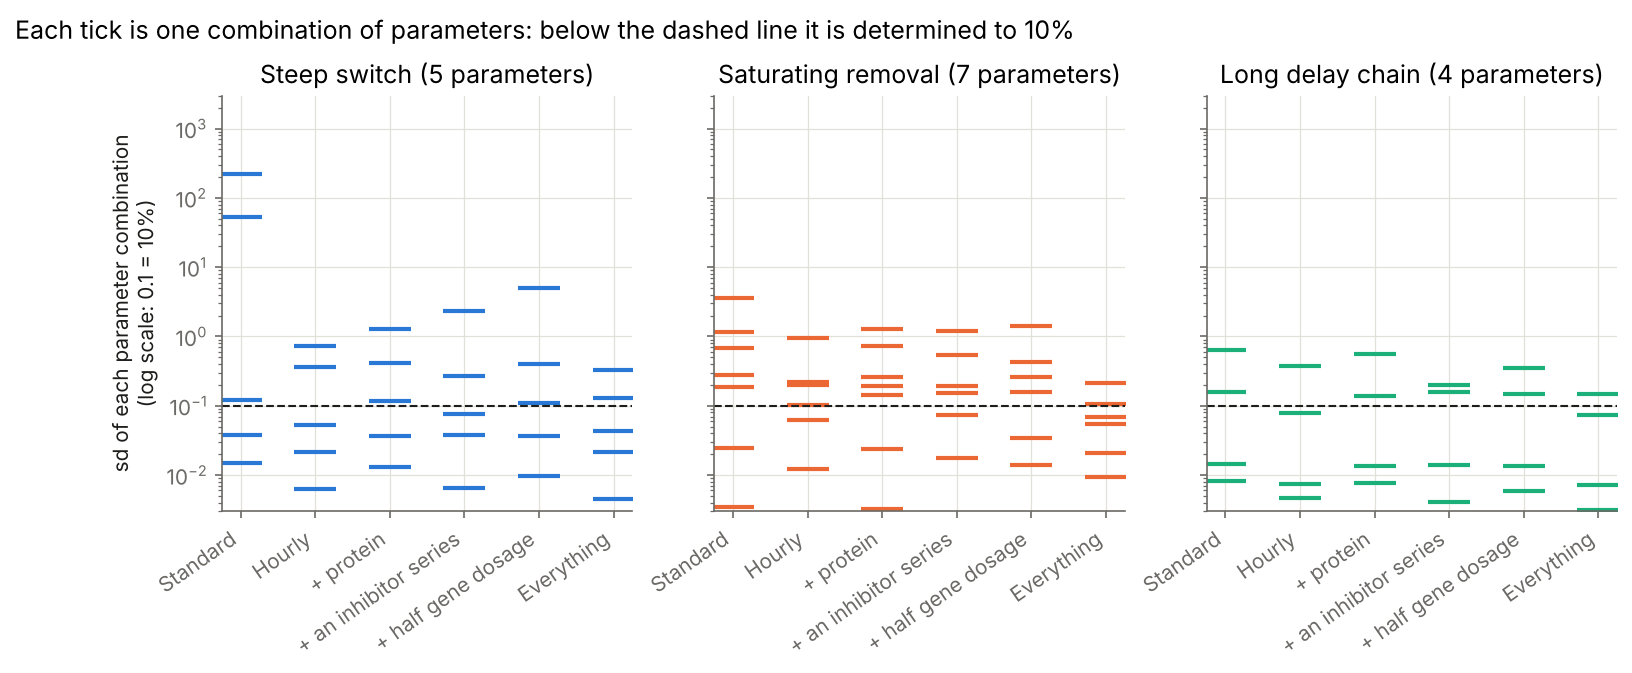
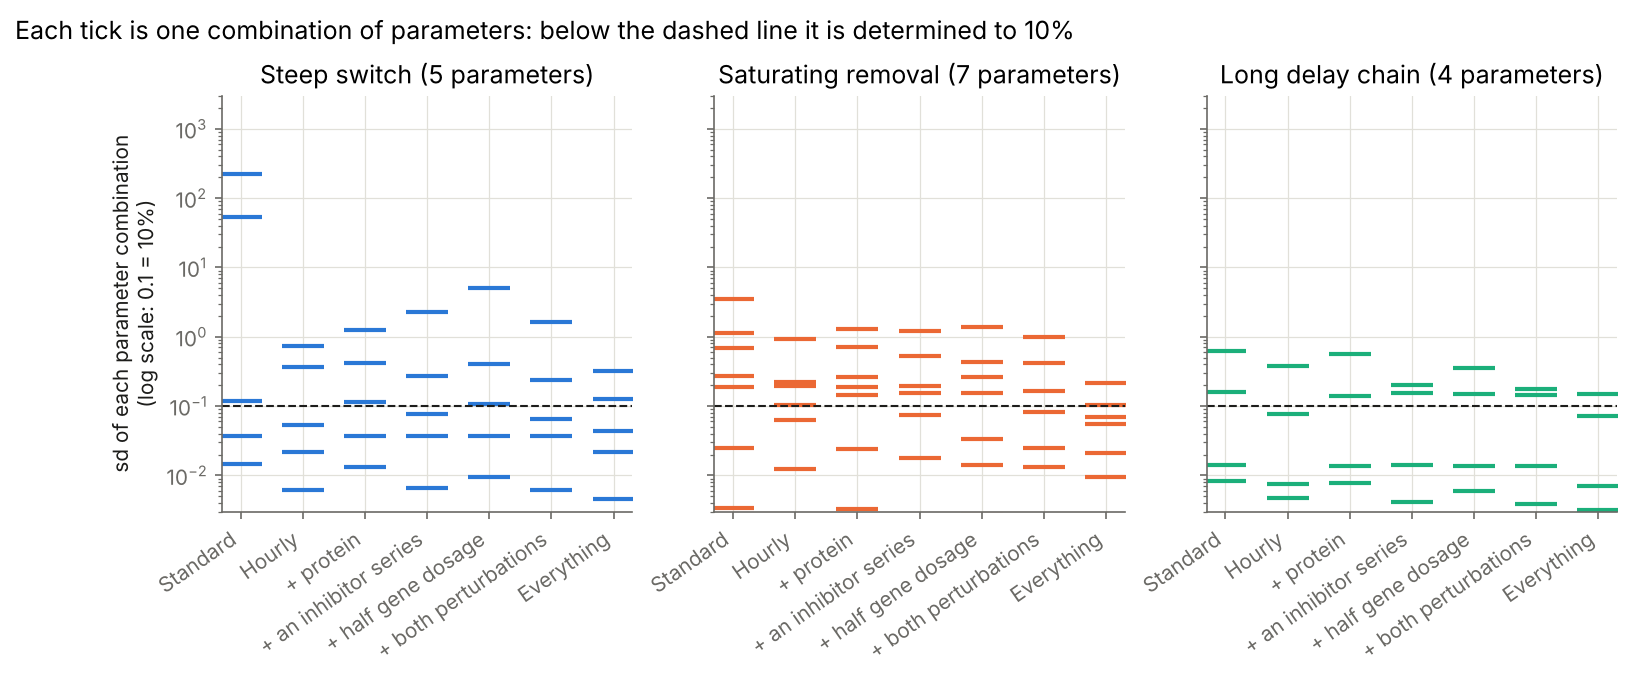
Design and identifiability write-up; combined-perturbation results; dashboard headline fixes
Claude-Session: https://claude.ai/code/session_01LZ2KLULEdfhe3RZk1mB1TN

diff --git a/app.py b/app.py
@@ -115,20 +115,22 @@ st.markdown('<p class="lede">Three textbook explanations of how one gene keeps 2
             "course really say about the parameters inside a model?</p>", unsafe_allow_html=True)
 
 if disc is not None:
-    std = disc[disc["design"] == "standard"].groupby("truth")["delta"].min()
-    inh = disc[disc["design"] == "inhibitor"].groupby("truth")["delta"].min()
-    dose = disc[disc["design"] == "dosage"].groupby("truth")["delta"].min()
+    worst = disc.groupby("design")["delta"].min()
+    singles = worst[["protein", "inhibitor", "dosage"]]
+    best_single = singles.idxmax()
     cols = st.columns(4)
     cards = [
         kpi("Rival models", "3", "A steep switch, saturating removal and a long delay chain: the three standard "
             "ways a negative-feedback loop can oscillate."),
-        kpi("Evidence from a standard time course", f"Δ ≤ {std.max():.1f}",
-            "mRNA every 4 hours for two days. Some version of a rival mimics the truth almost perfectly "
-            "(Δ under 2 is indistinguishable)."),
-        kpi("Evidence from adding an inhibitor series", f"Δ ≥ {inh.min():,.0f}",
-            "Three doses of a drug that slows protein removal: decisive whichever model is true (Δ above 10)."),
-        kpi("Evidence from adding half dosage", f"Δ ≥ {dose.min():,.1f}",
-            "A heterozygous knockout. Much less informative than the inhibitor, for at least one truth."),
+        kpi("Standard time course, worst case", f"Δ = {worst['standard']:.1f}",
+            "mRNA every 4 hours for two days. If the delay chain is true, both rivals can be tuned to mimic it "
+            "exactly. Hourly sampling barely helps."),
+        kpi("Best single extra experiment, worst case", f"Δ = {singles.max():.0f}",
+            f"{DESIGN_NAMES[best_single].replace('Add ', 'Adding ')}. Below 10, not decisive: whichever single "
+            "experiment is added, some truth leaves a rival able to fake it."),
+        kpi("Both perturbations together, worst case", f"Δ = {worst['both']:.0f}",
+            "An inhibitor series and half dosage, no new time courses. Each alone can be faked; together they "
+            "rule out every rival whichever model is true."),
     ]
     for c, card in zip(cols, cards):
         c.markdown(card, unsafe_allow_html=True)
@@ -193,9 +195,10 @@ with tabs[0]:
                              tooltip=["model", alt.Tooltip("slowed:Q", format=".0f"),
                                       alt.Tooltip("amplitude:Q", format=".2f")]).properties(height=240),
                     use_container_width=True)
-    note("Slowing protein removal, as a CK1 inhibitor does, lengthens the period of the two linear models and "
-         "shortens the saturating one. These are the base parameter sets; refitting each model shows how much "
-         "of that difference survives (Which experiment?).")
+    note("At these base parameters, slowing protein removal (as a CK1 inhibitor does) lengthens the period of "
+         "the two linear models and shortens the saturating one. It looks like a decisive test, but it is not: "
+         "re-tuned to the switch's time course, the saturating model lengthens its period by almost exactly the "
+         "switch's amounts. Which experiment? refits every rival to find what really separates them.")
 
 # ---------------------------------------------------------------- explore
 with tabs[1]:

diff --git a/scripts/make_figures.py b/scripts/make_figures.py
@@ -97,19 +97,22 @@ def discrimination_figure():
         x = np.arange(len(designs))
         for j, rival in enumerate(rivals):
             vals = g.set_index(["rival", "design"])["delta"].reindex([(rival, k) for k in designs]).to_numpy()
-            ax.bar(x + (j - 0.5) * 0.38, np.maximum(vals, 1e-2), width=0.36, color=COLOURS[rival],
-                   label=f"rival: {NAMES[rival]}")
+            pos = x + (j - 0.5) * 0.38
+            ax.bar(pos, np.maximum(vals, 1e-2), width=0.36, color=COLOURS[rival], label=f"rival: {NAMES[rival]}")
+            for p_, v in zip(pos, vals):
+                if v < 0.015:
+                    ax.text(p_, 0.013, "0", ha="center", va="bottom", fontsize=8, color=MUTED)
         ax.axhline(10, color=INK, lw=1, ls="--")
         ax.axhline(2, color=MUTED, lw=1, ls=":")
         ax.set_yscale("log")
-        ax.set_ylim(1e-2, None)
+        ax.set_ylim(1e-2, 1e5)
         ax.set_xticks(x, [DESIGN_NAMES[k].replace("Add ", "+ ").replace(" time course", "") for k in designs],
                       rotation=35, ha="right")
         ax.set_title(f"Truth: {NAMES[truth]}")
         ax.legend(fontsize=8, loc="upper left")
     axes[0].set_ylabel("Δ: evidence against the rival")
-    fig.suptitle("How well can the closest version of each rival mimic the truth?  (dashed: decisive, Δ = 10)",
-                 x=0.01, ha="left", y=1.03)
+    fig.suptitle("How well can the closest version of each rival mimic the truth?  "
+                 "(dashed: decisive, Δ = 10; dotted: indistinguishable, Δ = 2)", x=0.01, ha="left", y=1.03)
     save(fig, "discrimination.png")
 
 

diff --git a/docs/METHODOLOGY.md b/docs/METHODOLOGY.md
@@ -105,3 +105,89 @@ data. Every start is first rescaled in time to the period seen in the data and g
 
 Models are compared by BIC = SSE + *k* log *n*, where *k* counts the model's parameters, the phase and the
 offsets, and *n* is the number of observations.
+
+## Which experiment tells the models apart?
+
+**The criterion.** Take one model as the truth and compute exactly what it predicts for an experiment (at an
+arbitrary phase, with no noise). Fit each rival to those predictions. The rival's best SSE, **Δ**, is how far the
+closest version of the rival still misses, in units of measurement variance. This is the T-optimality criterion
+of Atkinson and Fedorov (1975). Its meaning is practical: with real noise, the rival's SSE exceeds the truth's by
+about Δ on average (less a little for each extra parameter the rival has). So Δ is the evidence the experiment
+is expected to give against the rival. Below about 2 the two are indistinguishable. Above about 10 (a
+likelihood ratio near 150) the rival is decisively rejected. Repeating an experiment doubles its Δ.
+
+Refitting is the point. Comparing the models at their base parameters says how different those three
+parameter sets are. Δ says what *no* setting of the rival's parameters can mimic.
+
+**Search.** A local minimum would make a rival look worse than it is and overstate Δ, so every fit was run from
+the rival's base parameters, six random starts around them, and the rival's fits to every other experiment.
+A second, independent pass then reran all 42 fits from twelve more widely spread starts
+(`run_design.py --refine`). It improved most fits by less than 0.2. The largest change was the saturation
+model's fit to the delay chain's half-dosage experiment, from 22.7 to 12.7. That is a reminder that each Δ is an
+upper bound, found by search, on the true minimum.
+
+**Results** ([discrimination.csv](../results/discrimination.csv)):
+
+| Truth → rival | Standard | Hourly | + protein | + inhibitor | + half dosage | + both perturbations | Everything |
+|---|---:|---:|---:|---:|---:|---:|---:|
+| Switch → saturation | 0.0 | 1.0 | 34 | 4.0 | 2.2 | 250 | 421 |
+| Switch → delay | 18 | 58 | 88 | 74 | 51 | 100 | 230 |
+| Saturation → switch | 56 | 185 | 118 | 1,208 | 334 | 1,240 | 2,012 |
+| Saturation → delay | 35 | 103 | 65 | 2,420 | 396 | 2,391 | 3,981 |
+| Delay → switch | 0.0 | 0.0 | 51 | 94 | 4.4 | 112 | 390 |
+| Delay → saturation | 0.0 | 0.3 | 7.0 | 9.8 | 12.7 | 810 | 861 |
+| **Worst case** | **0.0** | **0.0** | **7.0** | **4.0** | **2.2** | **100** | **230** |
+
+![Discrimination](../results/discrimination.png)
+
+What this shows:
+
+1. **A standard time course cannot tell the models apart**, unless the saturation model happens to be true.
+   If the truth is the delay chain, some version of each rival reproduces its mRNA time course to well within
+   the noise (Δ < 0.01), and the same holds for the saturation model mimicking the switch.
+2. **More of the same data barely helps.** Sampling every hour (four times the effort) leaves Δ at 1 or below in
+   all three hard cases.
+3. **The best single addition depends on which model is true.** If the delay chain is true, the inhibitor series
+   is best (Δ ≥ 9.8, just short of decisive). If the switch is true, the saturation model can mimic the inhibitor
+   series (Δ = 4.0) and half dosage (2.2), and only protein measurements separate them (34). No single addition
+   is decisive whatever the truth. The best worst case is protein, at Δ = 7.
+4. **Two perturbations together are decisive, though either alone can be faked.** Adding both reporter
+   experiments, with no new time courses, gives Δ of at least 100 against every rival. A rival can find
+   parameters that match the inhibitor series, or parameters that match half dosage, but not one set that matches
+   both. For example, the saturation model's best mimic of the switch's inhibitor series predicts that halving
+   transcription shortens the period to 15.8 hours, where the switch says 22.3.
+5. **Comparing models at fixed parameters misleads.** At its base parameters the saturation model predicts that
+   slowing protein removal *shortens* the period, the opposite of the other two
+   ([perturbations.png](../results/perturbations.png)). That looks like a decisive qualitative test. But the
+   version of the saturation model that best fits the switch's standard time course predicts the inhibitor
+   *lengthens* the period, by almost exactly the switch's amounts (26.3, 28.6 and 30.6 hours against 26.1, 28.6
+   and 31.5).
+
+## What does a time course say about the parameters?
+
+Within one model, the Fisher information of the log parameters at the truth says how precisely each
+combination of parameters is determined. It is computed from the Jacobian of the standardised residuals
+(forward differences), with the phase profiled out by a Schur complement and the offsets already profiled out of
+the residuals. Each eigenvalue λ corresponds to a combination of log parameters (its eigenvector) determined to a
+standard deviation of 1/√λ. A combination with sd below 0.1 is determined to within about 10%.
+
+![Sloppiness](../results/sloppiness.png)
+
+| Combinations determined to 10% | Standard | Hourly | + protein | + inhibitor | + half dosage | + both | Everything |
+|---|---:|---:|---:|---:|---:|---:|---:|
+| Steep switch (5 parameters) | 2 | 3 | 2 | 3 | 2 | 3 | 3 |
+| Saturating removal (7) | 2 | 3 | 2 | 3 | 3 | 4 | 5 |
+| Long delay chain (4) | 2 | 3 | 2 | 2 | 2 | 2 | 3 |
+
+All three models are **sloppy** in the sense of Gutenkunst et al. (2007): the eigenvalues spread over three to
+eight orders of magnitude. A standard time course pins down two combinations in each model, whatever its number
+of parameters. The best-determined is always the overall speed of the clock (every rate moving together, which
+sets the period). In the switch, two combinations are not determined at all (sd 54 and 220 on the log scale):
+one is the gain, with the Hill coefficient, because far above the threshold for oscillation the switch is simply
+on or off; the other is the ratio of the two protein removal rates, because mRNA data cannot say which of the two
+protein stages is the slow one. Hourly sampling resolves both (sd 0.36 and 0.73). Even with every experiment, two
+of the switch's five combinations and two of the saturation model's seven stay above 10%.
+
+This is why the design question had to be asked by refitting rivals rather than by perturbing parameters: in
+directions the data do not determine, a model can wander far from its base parameters, and its predictions for
+an untested experiment wander with it.
